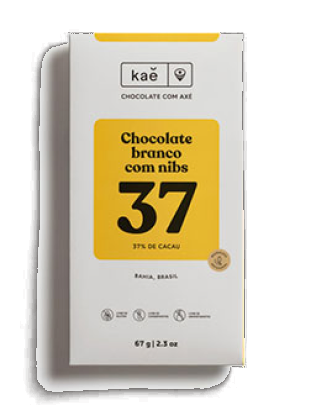
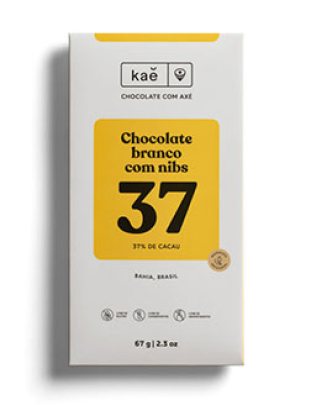
style: fundo branco da identidade atual e recorte limpo das embalagens
- Fundo branco e cinzas neutros (#EBEBEB, #333) no lugar do creme
- Embalagens recortadas pelo contorno da caixa: a sombra vira preto
  semitransparente e some o halo branco sobre as cores

Changed region(s): [[0.0868, 0.0889, 0.8103, 1.0], [0.6945, 0.0593, 0.7814, 0.0889], [0.2315, 0.0593, 0.3183, 0.0889]]

diff --git a/src/app/globals.css b/src/app/globals.css
@@ -4,38 +4,38 @@
 /*
  * Tokens da marca. Componentes usam só os nomes semânticos (primary, muted,
  * flavor-*...), então trocar a identidade é mexer aqui e em src/config/brand.ts.
- * Base: papel creme + tinta quase preta (do layout original) e as cores das
+ * Base: branco + preto (identidade atual da Kaê) e as cores das
  * embalagens como paleta de destaque, uma por sabor.
  */
 :root {
   --radius: 1.25rem;
 
-  --background: #fbf6ec;
-  --foreground: #16110f;
+  --background: #ffffff;
+  --foreground: #111111;
 
   --card: #ffffff;
   --card-foreground: var(--foreground);
   --popover: #ffffff;
   --popover-foreground: var(--foreground);
 
-  --primary: #16110f;
-  --primary-foreground: #fbf6ec;
+  --primary: #111111;
+  --primary-foreground: #ffffff;
 
-  --secondary: #f1e8d6;
-  --secondary-foreground: #16110f;
+  --secondary: #f4f4f2;
+  --secondary-foreground: #111111;
 
-  --muted: #f3ecdf;
-  --muted-foreground: #6b5f57;
+  --muted: #f4f4f2;
+  --muted-foreground: #5a5a58;
 
   --accent: #e8b630;
-  --accent-foreground: #16110f;
+  --accent-foreground: #111111;
 
   --destructive: #d01b2e;
   --success: #2f8a4c;
 
-  --border: #e3d8c5;
-  --input: #d9ccb6;
-  --ring: #16110f;
+  --border: #ebebeb;
+  --input: #dedede;
+  --ring: #111111;
 
   /* Cores das embalagens (uma por sabor) */
   --flavor-yellow: #e8b630;

diff --git a/src/components/home/hero.tsx b/src/components/home/hero.tsx
@@ -67,7 +67,7 @@ export function Hero() {
                 className={`group absolute w-[34%] ${className}`}
                 style={{ ['--tilt' as string]: tilt, animationDelay: delay }}
               >
-                <div className="animate-float drop-shadow-[0_24px_30px_rgba(22,17,15,0.25)] transition-transform duration-300 group-hover:scale-105" style={{ ['--tilt' as string]: tilt, animationDelay: delay }}>
+                <div className="animate-float drop-shadow-[0_24px_30px_rgba(17,17,17,0.25)] transition-transform duration-300 group-hover:scale-105" style={{ ['--tilt' as string]: tilt, animationDelay: delay }}>
                   <Image src={product.image} alt="" width={311} height={405} priority className="h-auto w-full" />
                 </div>
               </Link>

diff --git a/src/components/home/flavor-rail.tsx b/src/components/home/flavor-rail.tsx
@@ -54,7 +54,7 @@ export function FlavorRail() {
                   alt={product.fullName}
                   width={311}
                   height={405}
-                  className="absolute -bottom-6 left-1/2 w-[72%] -translate-x-1/2 rotate-[-6deg] drop-shadow-[0_24px_24px_rgba(22,17,15,0.3)] transition-transform duration-500 group-hover:-translate-y-3 group-hover:rotate-0"
+                  className="absolute -bottom-6 left-1/2 w-[72%] -translate-x-1/2 rotate-[-6deg] drop-shadow-[0_24px_24px_rgba(17,17,17,0.3)] transition-transform duration-500 group-hover:-translate-y-3 group-hover:rotate-0"
                 />
                 <div className="relative z-10 mt-2">
                   <h3 className="font-display text-2xl font-bold leading-tight">{product.name}</h3>

diff --git a/src/components/home/club-teaser.tsx b/src/components/home/club-teaser.tsx
@@ -47,7 +47,7 @@ export function ClubTeaser() {
               alt=""
               width={311}
               height={405}
-              className="absolute left-1/2 top-1/2 w-40 drop-shadow-[0_20px_24px_rgba(22,17,15,0.3)] md:w-48"
+              className="absolute left-1/2 top-1/2 w-40 drop-shadow-[0_20px_24px_rgba(17,17,17,0.3)] md:w-48"
               style={{ transform: `translate(calc(-50% + ${(index - 1) * 70}px), calc(-50% + ${Math.abs(index - 1) * 18}px)) rotate(${(index - 1) * 12}deg)` }}
             />
           ))}
